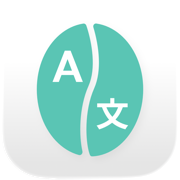
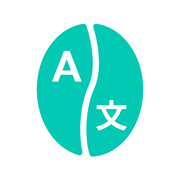
site

diff --git a/index.html b/index.html
@@ -7,13 +7,13 @@
   <meta name="description" content="Kafo は、出会った語を端末の中で深く理解し、単語帳に残し、忘れそうなタイミングで復習するオンデバイス語彙学習アプリです。">
   <meta name="theme-color" content="#00C8B3">
   <link rel="canonical" href="https://devcat202510-gitty.github.io/kafo-legal/">
-  <link rel="icon" href="./assets/img/favicon.png" type="image/png">
+  <link rel="icon" href="./assets/img/kafo-icon-full.svg" type="image/svg+xml">
   <link rel="apple-touch-icon" href="./assets/img/apple-touch-icon.png">
   <meta property="og:title" content="Kafo">
   <meta property="og:description" content="調べた語をその場で深く理解し、自分の単語帳に残す。オンデバイスの語彙学習アプリ。">
   <meta property="og:type" content="website">
   <meta property="og:url" content="https://devcat202510-gitty.github.io/kafo-legal/">
-  <meta property="og:image" content="https://devcat202510-gitty.github.io/kafo-legal/assets/img/app-icon.png">
+  <meta property="og:image" content="https://devcat202510-gitty.github.io/kafo-legal/assets/img/kafo-icon-full.png">
   <meta property="og:locale" content="ja_JP">
   <link rel="stylesheet" href="./assets/css/site.css">
 </head>
@@ -23,7 +23,7 @@
   <header class="site-nav">
     <div class="site-nav__inner">
       <a class="brand" href="./" aria-current="page">
-        <img class="brand__mark" src="./assets/img/app-icon.png" width="32" height="32" alt="">
+        <img class="brand__mark" src="./assets/img/kafo-icon-full.svg" width="32" height="32" alt="">
         Kafo
       </a>
       <nav aria-label="サイト">
@@ -40,7 +40,7 @@
       <div class="hero__inner">
         <div class="hero__copy">
           <div class="hero__identity">
-            <img class="hero__icon" src="./assets/img/app-icon.png" width="64" height="64" alt="">
+            <img class="hero__icon" src="./assets/img/kafo-icon-full.svg" width="64" height="64" alt="">
             <p class="hero__brand" id="hero-brand">Kafo</p>
           </div>
           <h1 class="hero__title">その語を、今調べて、<br>今しまって、あとで思い出す。</h1>
@@ -171,7 +171,7 @@
   <footer class="site-footer">
     <div class="site-footer__inner">
       <div class="site-footer__brand">
-        <img src="./assets/img/app-icon.png" width="40" height="40" alt="">
+        <img src="./assets/img/kafo-icon-full.svg" width="40" height="40" alt="">
         <div>
           <strong>Kafo</strong>
           <p>調べて、広げて、しまって、思い出す。オンデバイスの語彙学習アプリ。</p>

diff --git a/privacy-policy/index.html b/privacy-policy/index.html
@@ -6,7 +6,7 @@
   <title>Kafo プライバシーポリシー</title>
   <meta name="description" content="語彙学習アプリ Kafo のプライバシーポリシー">
   <link rel="canonical" href="https://devcat202510-gitty.github.io/kafo-legal/privacy-policy/">
-  <link rel="icon" href="../assets/img/favicon.png" type="image/png">
+  <link rel="icon" href="../assets/img/kafo-icon-full.svg" type="image/svg+xml">
   <style>
     body {
       margin: 0;
